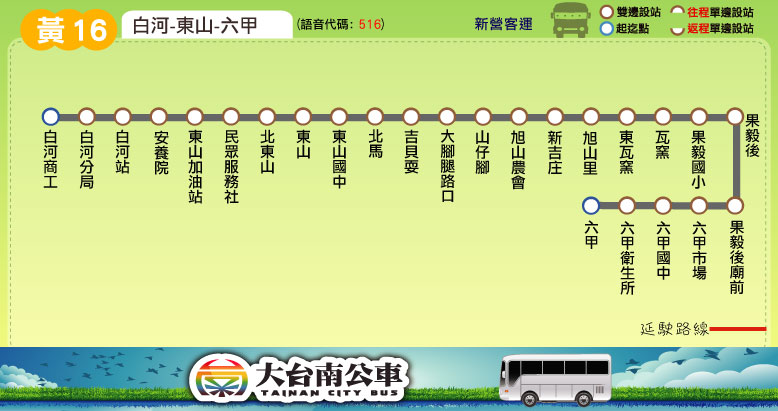
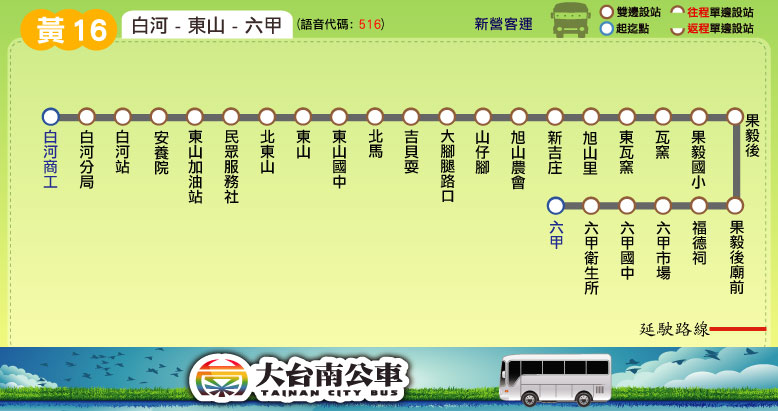
新增站位：黃4、黃16(增「福德祠」)

diff --git a/route/fare_and_time/yellow_4.js b/route/fare_and_time/yellow_4.js
@@ -11,7 +11,7 @@ yellow_4_interval_stop = [ // checked 2016.10.08
 ["二重溪","旭山里"], // 二重溪
 ["東瓦窯","瓦窯"], // 瓦窯
 ["果毅國小","果毅後","果毅後廟前"], // 果毅後廟前
-["六甲市場","六甲國中","六甲衛生所","六甲"] // 六甲
+["福德祠","六甲市場","六甲國中","六甲衛生所","六甲"] // 六甲
 ];
 yellow_4_fare = [
 [26],

diff --git a/route/fare_and_time/yellow_16.js b/route/fare_and_time/yellow_16.js
@@ -10,7 +10,7 @@ yellow_16_interval_stop = [ // 2017.08.22 checked
 ["旭山里"], // 山仔腳
 ["東瓦窯","瓦窯"], // 瓦窯
 ["果毅國小","果毅後","果毅後廟前"], // 果毅後廟前
-["六甲市場","六甲國中","六甲衛生所","六甲"] // 六甲
+["福德祠","六甲市場","六甲國中","六甲衛生所","六甲"] // 六甲
 ];
 yellow_16_fare = [
 [26],
